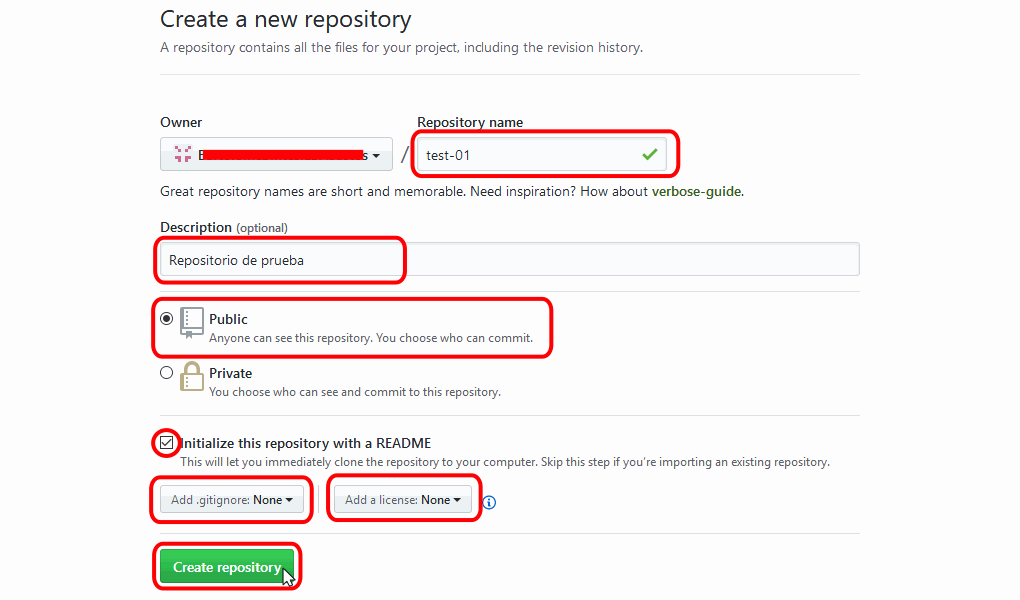
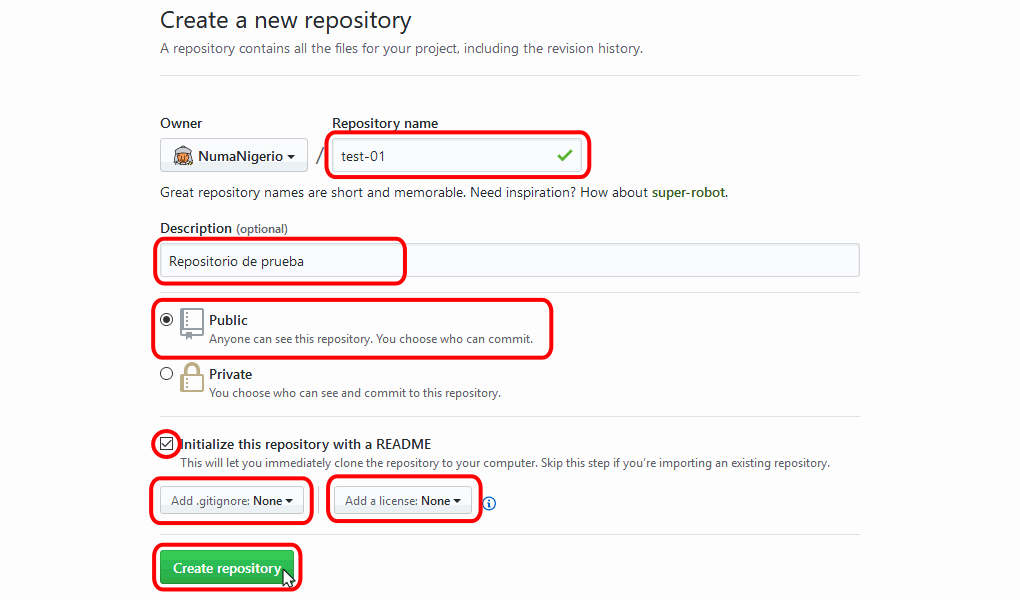
Actualizo con usuario NumaNigerio Github Repositorios

diff --git a/lecciones/github-repositorios.html b/lecciones/github-repositorios.html
@@ -1,0 +1,62 @@
+<!DOCTYPE html>
+<html lang="es">
+<head>
+  <meta charset="utf-8" />
+  <meta name="viewport" content="width=device-width, initial-scale=1.0" />
+  <title>Repositorios. Git. Informática. Bartolomé Sintes Marco</title>
+  <link href="../varios/informatica.css" rel="stylesheet" type="text/css" title="mclibre" />
+  <link rel="icon" href="../varios/favicon.ico" />
+</head>
+
+<body>
+  <h1>GitHub. Repositorios</h1>
+
+  <nav>
+    <p>
+      <a href="../index.html"><img src="../varios/iconos/icono-informatica.svg" alt="Índice de Temas de Informática" title="Índice de Temas de Informática" height="48" width="48" /></a>
+      <a href="#"><img src="../varios/iconos/icono-arrow-circle-up.svg" alt="Principio de la página" title="Principio de la página" width="36" height="36" /></a>
+    </p>
+
+    <h2>GitHub Rpositorios</h2>
+
+    <div class="toc">
+      <ul>
+        <li><a href="#crear">Crear repositorio</a></li>
+      </ul>
+    </div>
+  </nav>
+
+  <section id="crear">
+    <h2>Crear un repositorio en GitHub</h2>
+
+    <p>Para crear un nuevo repositorio en GitHub:</p>
+    <ol>
+      <li>Haga clic en el icono en forma de cruz situado arriba a la derecha y elija la opción "New repository". Si no ha creado todavía ningún repositorio, en la página web se puede mostrar un botón "Start a project", que también permite crear un nuevo repositorio.
+        <p class="captura">
+          <img src="../img/git/github-repositorios-crear-01.png" alt="GitHub - Crear repositorio" width="1007" height="340" />
+        </p>
+      </li>
+
+      <li>Indique el nombre del repositorio, su descripción, si es público o privado. Se recomienda incluir en el repositorio un fichero README, pero no es necesario crear el fichero .gitignore (salvo si se trata de un proyecto de software de uno de los tipos disponibles). Si se trata de un proyecto de software libre, elija la licencia que desee emplear. Haga clic en Create repository:
+        <p class="captura">
+          <img src="../img/git/github-repositorios-crear-02.png" alt="GitHub - Crear repositorio" width="1020" height="600" />
+        </p>
+      </li>
+
+      <li>Inmediatamente se mostrará el repositorio recién creado. En este caso únicamente contiene el fichero Readme.md:
+        <p class="captura">
+          <img src="../img/git/github-repositorios-crear-03.png" alt="GitHub - Crear repositorio" width="1020" height="610" />
+        </p>
+      </li>
+    </ol>
+  </section>
+
+  <footer>
+    <p class="ultmod">Última modificación de esta página: 25 de enero de 2018</p>
+
+    <p class="licencia"><a rel="license" href="https://creativecommons.org/licenses/by-sa/4.0/deed.es_ES"><img src="../varios/iconos/icono-cc-by-sa.svg" alt="Licencia Creative Commons" title="Licencia Creative Commons BY-SA" width="120" height="42" /></a><br />
+      Esta página forma parte del curso <a href="http://www.mclibre.org/consultar/informatica/">Temas de Informática</a> por <a href="http://www.mclibre.org/">Bartolomé Sintes Marco</a><br />
+      que se distribuye bajo una <a rel="license" href="https://creativecommons.org/licenses/by-sa/4.0/deed.es_ES">Licencia Creative Commons Reconocimiento-CompartirIgual 4.0 Internacional (CC BY-SA 4.0)</a>.</p>
+  </footer>
+</body>
+</html>

diff --git a/index.html b/index.html
@@ -68,6 +68,7 @@
       </ul>
       <ul>
         <li><a href="lecciones/github-cuenta.html">Crear cuenta en GitHub</a></li>
+        <li><a href="lecciones/github-repositorios.html">Repositorios en GitHub</a></li>
       </ul>
     </section>
 
@@ -132,7 +133,7 @@
   </div>
 
   <footer>
-    <p class="ultmod">Última modificación de alguna página de este curso: 24 de enero de 2018</p>
+    <p class="ultmod">Última modificación de alguna página de este curso: 25 de enero de 2018</p>
 
     <p class="licencia"><a rel="license" href="https://creativecommons.org/licenses/by-sa/4.0/deed.es_ES"><img src="varios/iconos/icono-cc-by-sa.svg" alt="Licencia Creative Commons" title="Licencia Creative Commons BY-SA" width="120" height="42" /></a><br />
       Esta página forma parte del curso <a href="http://www.mclibre.org/consultar/informatica/">Temas de Informática</a> por <a href="http://www.mclibre.org/">Bartolomé Sintes Marco</a><br />
